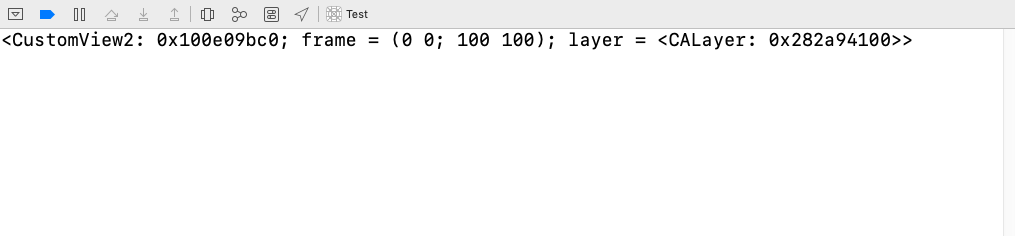
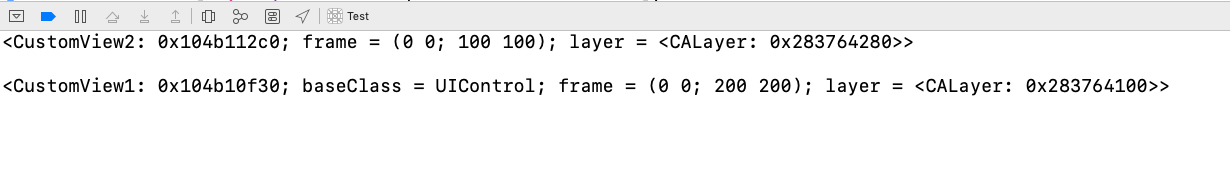
touch事件从始至终

Changed region(s): [[0.0, 0.0, 1.0, 0.2762], [0.0, 0.4144, 0.9468, 0.5249]]

diff --git a/iOS/UI/UIKit/UIResponder/touch事件从始至终.md b/iOS/UI/UIKit/UIResponder/touch事件从始至终.md
@@ -1,7 +1,11 @@
 
 # Touch事件从始至终
 
-> 当点击屏幕时，iOS系统首先会收到touch事件，然后从UIWindow开始自下而上遍历图层，找到最上层touch事件点击的View，即first responder。如果first responder能够处理Touch事件，则触发事件响应的action；否则根据响应链寻找到能够处理Touch事件的Responder再处理事件。
+> iOS系统在运行过程中，会收到各种不同的事件，包括`touch事件`，`motion事件`，`remote control事件`以及`press 事件`。`motion事件`指的是设备运动相关的事件，例如摇一摇等;`remote control`事件指的是收到外设(例如耳机)发出的命令，例如耳机控制音视频的播放;`press 事件`指的是游戏手柄，apple TV遥控器等有物理按钮的设备间的交互。我们这里只讨论`touch事件`与iOS设备屏幕的交互。
+
+
+
+> 当点击屏幕时，iOS系统首先会收到touch事件并分派到相应的app，然后从UIWindow开始自下而上遍历图层，找到最上层touch事件点击的View，即first responder。如果first responder能够处理Touch事件，则触发事件响应的action；否则根据响应链寻找到能够处理Touch事件的Responder再处理事件。
 
 <div align="center"><img src="pic/touch_test.jpeg" alt="图1" width="200" height="400" align="top" /></div>
 
@@ -12,7 +16,7 @@
 
 ## 确定first responder
 
- 当点击屏幕上CustomView2区域时，首先系统会收到touch事件，然后调用UIWindow的方法`[UIWindow _targetWindowForPathIndex:atPoint:forEvent:windowServerHitTestWindow:]`,该方法会遍历UIWindow的子视图，并调用子视图的`hitTest:withEvent:`
+ 当点击屏幕上CustomView2区域时，首先系统会收到touch事件，然后调用UIWindow的方法`[UIWindow _targetWindowForPathIndex:atPoint:forEvent:windowServerHitTestWindow:]`,该方法会遍历UIWindow的子视图，并调用子视图的`hitTest:withEvent:`确定first responder。
 
 <div align="center"><img src="pic/touch_test_4.png" alt="图2" width="200" height="400" align="top" /></div>
 
@@ -47,8 +51,15 @@
 ![](pic/touch_test_8.png)
 
 
-## 手势
+## UIControl
 
+
+
+
+
+[Using Responders and the Responder Chain to Handle Events][1]
+
+[1]: https://developer.apple.com/documentation/uikit/touches_presses_and_gestures/using_responders_and_the_responder_chain_to_handle_events?language=objc
 
 
 
